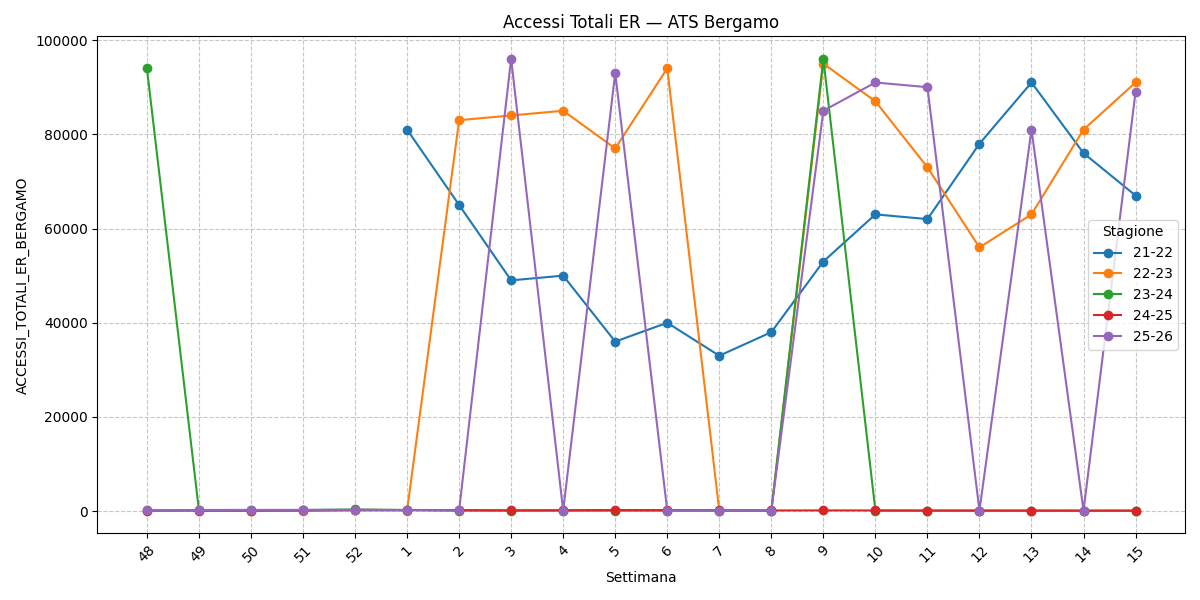
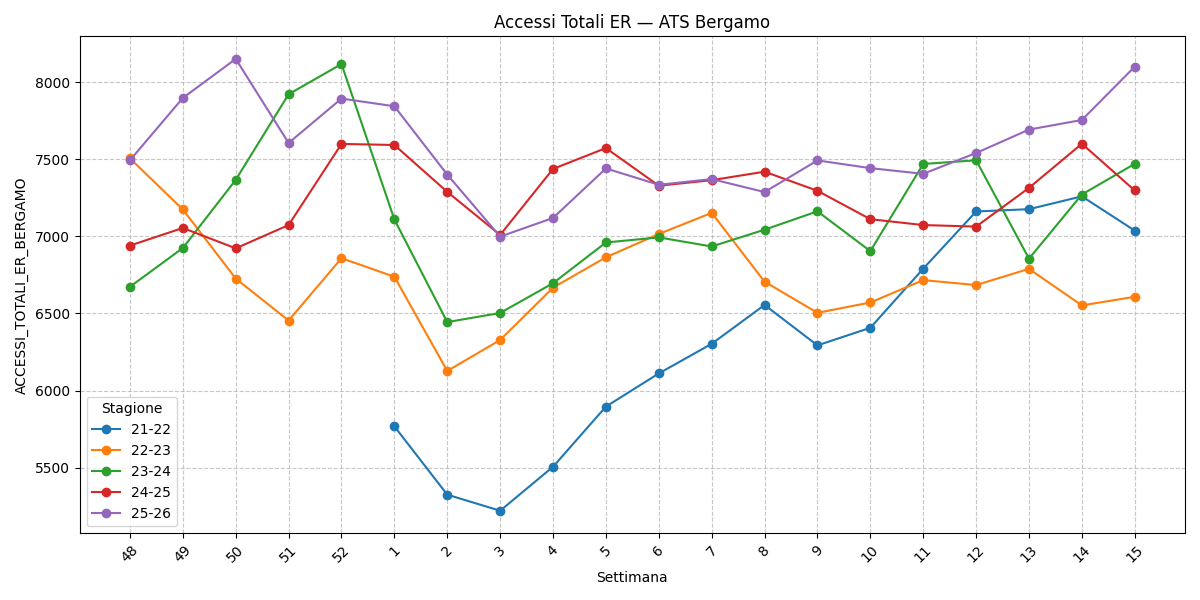
MODIFICHE ILI 2

diff --git a/SORVEGLIANZA ACCESSI PS/01_ILI_files.py b/SORVEGLIANZA ACCESSI PS/01_ILI_files.py
@@ -358,11 +358,9 @@ print("=" * 65)
 tutti_fogli_bg = pd.read_excel(FILE_BERGAMO, sheet_name=None)
 print(f"Fogli trovati: {list(tutti_fogli_bg.keys())}")
 
-# --- TOTAL ACCESS IN ER (MONTAGNA) — nel file Bergamo questo è Bergamo ---
-# NOTA: il file Bergamo usa il nome foglio 'TOTAL ACCESS IN ER (MONTAGNA)'
-# ma i dati contenuti corrispondono all'ATS Bergamo (verificato dai valori).
+# --- TOTAL ACCESS IN ER (BERGAMO) ---
 print("\n[1/2] TOTAL ACCESS IN ER — ATS Bergamo")
-df = tutti_fogli_bg["TOTAL ACCESS IN ER (MONTAGNA)"].copy()
+df = tutti_fogli_bg["TOTAL ACCESS IN ER (BERGAMO)"].copy()
 anni = [c for c in df.columns if c != 'WEEK']
 df = applica_correzione(df, anni)
 df_s = trasforma_in_stagionale(df, anni, 'ACCESSI_TOTALI_ER_BERGAMO')
@@ -371,13 +369,12 @@ grafico_stagionale(df_s, 'ACCESSI_TOTALI_ER_BERGAMO',
                    "Accessi Totali ER — ATS Bergamo",
                    "access_tot_bergamo")
 
-# --- ACCESS IN ATS MONTAGNA (ILI) — nel file Bergamo: ILI Bergamo ---
+# --- ACCESS IN ATS BERGAMO (ILI) ---
 print("\n[2/2] ACCESS ILI — ATS Bergamo")
-df = tutti_fogli_bg["ACCESS IN ATS MONTAGNA (ILI)"].copy()
+df = tutti_fogli_bg["ACCESS IN ATS BERGAMO (ILI)"].copy()
 anni = [c for c in df.columns if c != 'WEEK']
 df = applica_correzione(df, anni)
 df_s = trasforma_in_stagionale(df, anni, 'ACCESSI_ILI_ATS_BERGAMO')
-# Rimuovi righe tutte NaN (foglio vuoto per questa ATS)
 if not df_s.empty and 'ACCESSI_ILI_ATS_BERGAMO' in df_s.columns:
     df_s = df_s.dropna(subset=['ACCESSI_ILI_ATS_BERGAMO'])
 if df_s.empty:
@@ -387,6 +384,7 @@ else:
     grafico_stagionale(df_s, 'ACCESSI_ILI_ATS_BERGAMO',
                        "Accessi ILI — ATS Bergamo",
                        "ili_ats_bergamo")
+
 
 # -------------------------------------------------------
 # PASSO 3: FILE ATS MONTAGNA (Data_ILI_ATS_Montagna.xlsx)
